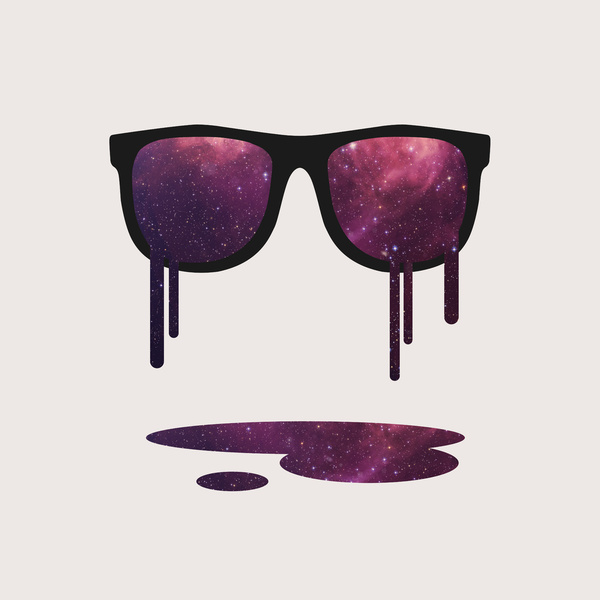
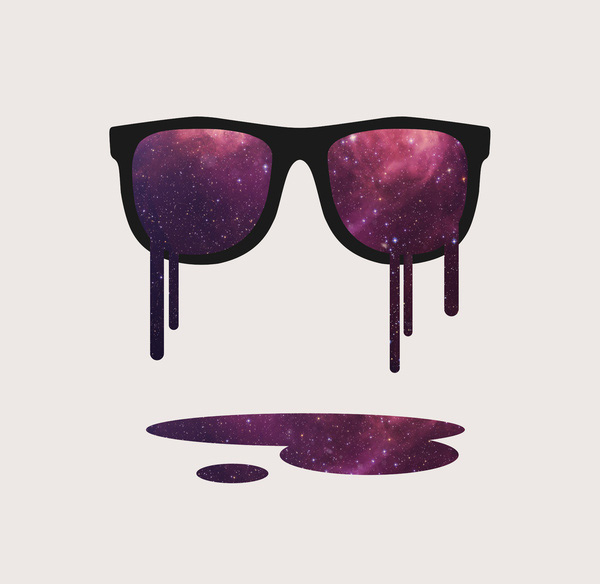
Updated the size of the post-image photo, added max-width trick to the same photo

diff --git a/app/assets/stylesheets/modules/_post.sass b/app/assets/stylesheets/modules/_post.sass
@@ -22,14 +22,10 @@
 .post-date
 
 .post-image
-  max-width: 320px
-  // remove in production
-  max-height: 312px
-  overflow-y: hidden
-  // ====================
   margin: auto
+  width: 320px
   img
-    width: 100%
+    max-width: 100%
     display: block
 
 .post-description

diff --git a/app/assets/javascripts/application.js b/app/assets/javascripts/application.js
@@ -10,4 +10,3 @@
 // WARNING: THE FIRST BLANK LINE MARKS THE END OF WHAT'S TO BE PROCESSED, ANY BLANK LINE SHOULD
 // GO AFTER THE REQUIRES BELOW.
 //
-//= require picturefill.js
